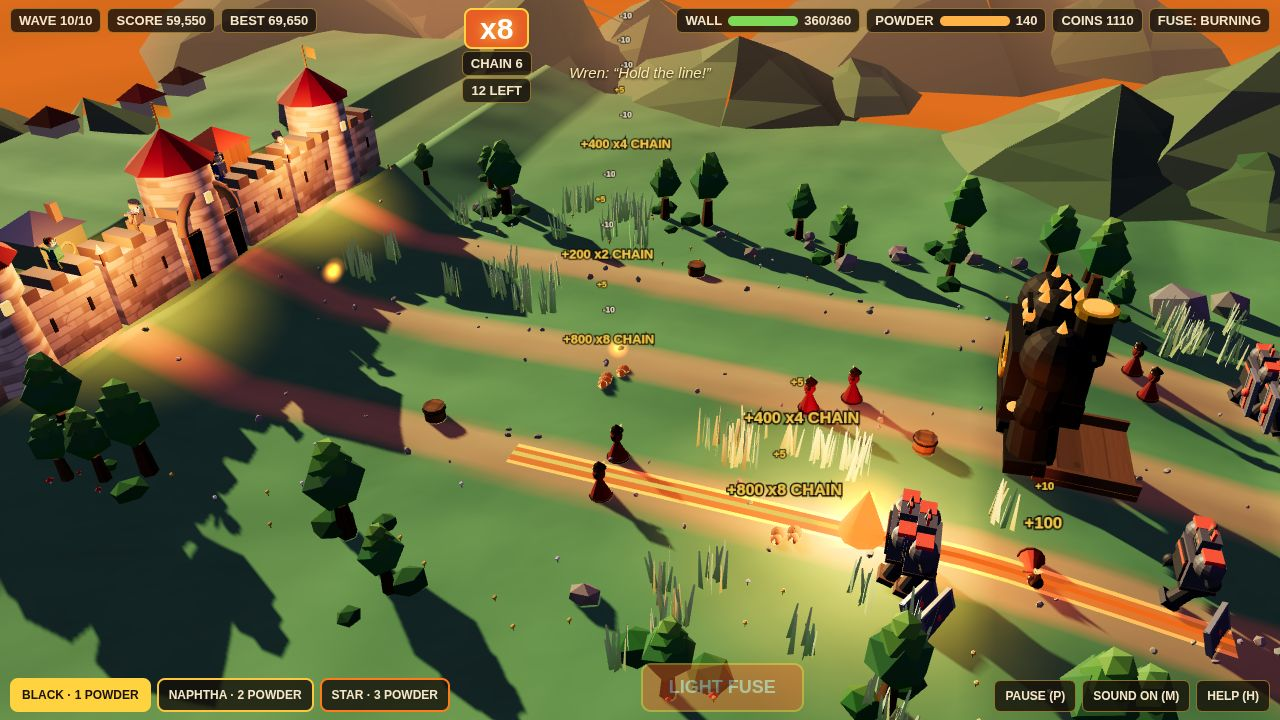
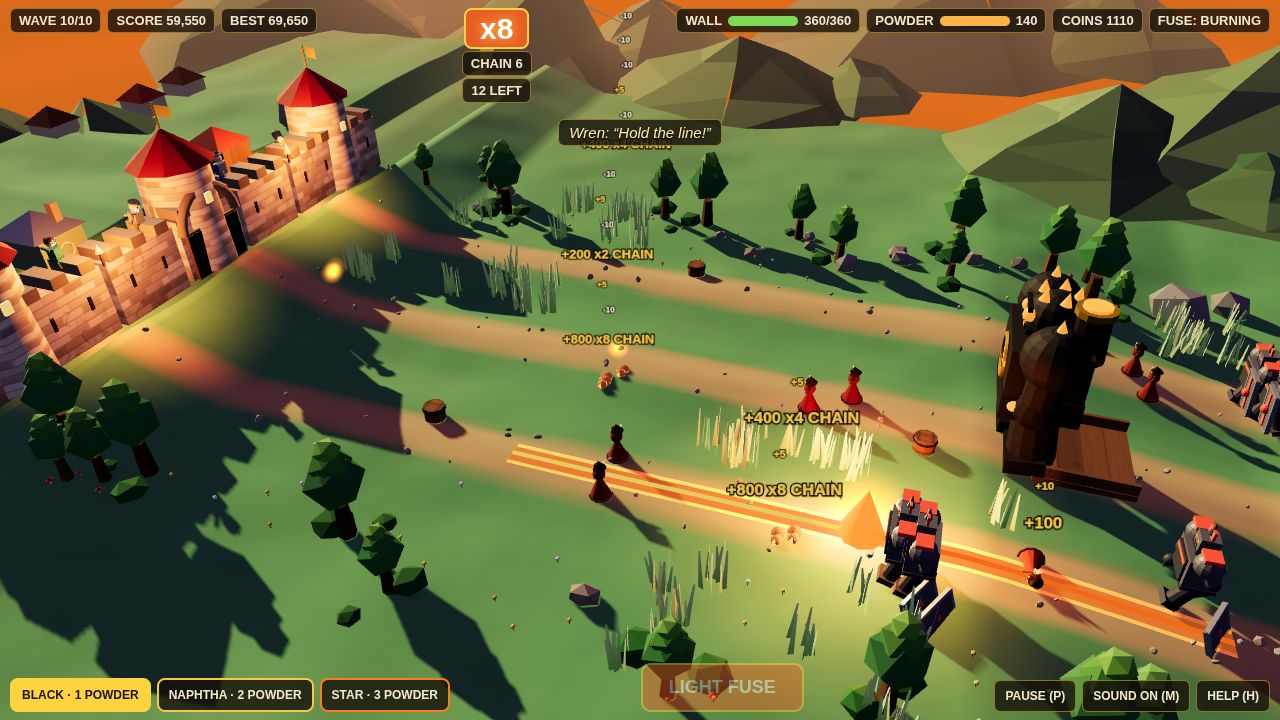
CHAINFIRE 3D round 3 Agent C (UI/sound): dialog pill below HUD + sound proof fixes
Item 8: bark was fixed top:64px, overlapping the HUD mid column
(x8/CHAIN/LEFT reach y~103) on long lines and swallowed by wrapped HUD
rows at phone widths. Now hangs below #hud (top:100%+8px), wraps inside
the frame, chip-style pill; toast moved inside #hud below the bark.
Geometry probe: 0 chip overlaps, 0 edge overflow at 1280x720, 844x390,
390x844 (longest bark).

Item 13: chain sound was dead code (drain played 'chain' for an event
the sim never pushed) — registerKill now pushes it. UI buttons had no
click sound — wired PLAY/difficulty/pause/mute/help/reroll/skip/menu
(click plays after unlock() so the first PLAY is audible). Fixed the
drain replay bug (events replayed once per sim step inside runSteps
batches; 1,088 raw calls -> 161). Sound log (after-sound-log.json):
click 62, chain 34, coin 34, fizzle 18, horn 6, shield_break 2, boom 1,
shoot 4, audioCtx running; oscillator-tone counts confirm every call
scheduled a real tone. SOUND ON (M) visible in the action shot.

Action re-staged deterministically (seed 7, --twice MATCH, 0 errors,
59,550 / x8, BEST 69,650 unchanged).

Changed region(s): [[0.4375, 0.1528, 0.5625, 0.2139], [0.4375, 0.0917, 0.5625, 0.1222]]

diff --git a/game/src/main.js b/game/src/main.js
@@ -75,7 +75,7 @@ const ui = new UI(
   { hud: document.getElementById('hud'), bottom: document.getElementById('bottom'), screen: document.getElementById('screen'), toast: document.getElementById('toast') },
   {
     onPlay: () => startRun(difficulty, SEED),
-    onDifficulty: (name) => { difficulty = name; ui.showTitle(profile, difficulty); },
+    onDifficulty: (name) => { audio.unlock(); audio.play('click'); difficulty = name; ui.showTitle(profile, difficulty); },
     onLightFuse: () => { if (world) lightTrail(world); },
     onPause: () => togglePause(),
     onMute: () => toggleMute(),
@@ -97,6 +97,9 @@ const ui = new UI(
     onReroll: () => {
       if (!world) return;
       if (mode === 'draft') {
+        // ROUND 3 (item 13): UI click sound (the results branch is covered
+        // by startRun below — do not double-play).
+        audio.play('click');
         if (rerollDraft(world)) ui.showDraft(world, profile);
       } else if (mode === 'results') {
         startRun(difficulty, SEED);
@@ -104,12 +107,13 @@ const ui = new UI(
     },
     onSkipDraft: () => {
       if (!world) return;
+      audio.play('click'); // ROUND 3 (item 13): UI click sound.
       world.draft = null;
       mode = 'play';
       ui.hideScreens();
     },
     onNewRun: () => startRun(difficulty, SEED),
-    onMenu: () => { mode = 'title'; showTitle(); }
+    onMenu: () => { audio.play('click'); mode = 'title'; showTitle(); } // ROUND 3 (item 13): UI click sound.
   }
 );
 
@@ -155,6 +159,7 @@ const input = createInput(canvas, renderer, {
 });
 
 function toggleMute() {
+  audio.play('click'); // ROUND 3 (item 13): UI click sound (plays while still unmuted; no-ops when muted).
   audio.unlock();
   audio.setMuted(!audio.isMuted());
   ui.setMuted(audio.isMuted());
@@ -162,12 +167,14 @@ function toggleMute() {
 
 function togglePause() {
   if (mode !== 'play') return;
+  audio.play('click'); // ROUND 3 (item 13): UI click sound.
   paused = !paused;
   ui.toast(paused ? 'PAUSED' : 'RESUMED');
 }
 
 function showHelp() {
-  if (mode === 'help') { closeHelp(); return; }
+  if (mode === 'help') { closeHelp(); return; } // closeHelp plays the click — do not double-play.
+  audio.play('click'); // ROUND 3 (item 13): UI click sound.
   helpReturn = mode;
   mode = 'help';
   ui.showHelp();
@@ -175,6 +182,7 @@ function showHelp() {
 
 function closeHelp() {
   if (mode !== 'help') return;
+  audio.play('click'); // ROUND 3 (item 13): UI click sound.
   mode = helpReturn;
   if (mode === 'title') showTitle();
   else ui.hideScreens();
@@ -243,6 +251,10 @@ function startRun(diffName, seed) {
   ui.hideScreens();
   ui.bark('waveStart', 0);
   audio.unlock();
+  // ROUND 3 (item 13): UI click sound (PLAY / NEW RUN / reroll-in-results).
+  // AFTER unlock(): on the first PLAY the context does not exist yet, so a
+  // play() before unlock() would early-return silently.
+  audio.play('click');
   audio.startAmbient();
   audio.setMusicMood('calm');
   input.setEnabled(true);
@@ -251,6 +263,13 @@ function startRun(diffName, seed) {
 function drainAudioEvents() {
   if (!world || !world.events) return;
   for (const ev of world.events) {
+    // ROUND 3 (item 13): the drain runs once per sim step, but the renderer
+    // only clears the list once per frame — inside a runSteps() batch (or a
+    // multi-step frame under lag) every event replayed once per step, so one
+    // explosion sounded hundreds of times. Mark each event played; the
+    // renderer still consumes + clears the list as before.
+    if (ev._played) continue;
+    ev._played = true;
     if (ev.type === 'chain') audio.play('chain', { pitch: world.chainMul });
     else if (ev.type === 'coin') audio.play('coin');
     else audio.play(ev.type);

diff --git a/game/index.html b/game/index.html
@@ -21,7 +21,14 @@
   .hud-bar-powder { background: #ffb347; }
   .hud-fuse.fuse-armed { color: #ff7a1a; border-color: #ff7a1a; animation: pulse 0.8s infinite; }
   @keyframes pulse { 50% { opacity: 0.6; } }
-  .bark { position: absolute; top: 64px; left: 50%; transform: translateX(-50%); color: #ffe9a8; font-size: 15px; font-style: italic; text-shadow: 0 1px 3px #000; pointer-events: none; }
+  /* ROUND 3 (item 8): the bark sat at fixed top:64px — but the HUD mid column
+     (x8/CHAIN/LEFT) reaches y~103, so every long bark overlapped the chips,
+     and at phone widths the wrapped HUD rows swallowed it entirely (390px:
+     bark over 8 LEFT + COINS + FUSE chips). Now the bark hangs just below the
+     HUD (top:100% of #hud, so it tracks HUD height at every viewport), wraps
+     inside the frame, and wears a chip-style pill so it reads over the
+     bright world. */
+  .bark { position: absolute; top: calc(100% + 8px); left: 50%; transform: translateX(-50%); max-width: calc(100vw - 24px); text-align: center; background: rgba(20,16,10,0.78); border: 1px solid rgba(255,197,61,0.5); border-radius: 6px; padding: 4px 10px; color: #ffe9a8; font-size: 15px; font-style: italic; text-shadow: 0 1px 3px #000; pointer-events: none; }
   #bottom { position: absolute; bottom: 0; left: 0; right: 0; display: flex; justify-content: space-between; align-items: flex-end; padding: 8px 10px; z-index: 5; gap: 8px; pointer-events: none; }
   #bottom > * { pointer-events: auto; }
   .powder-box { display: flex; gap: 6px; }
@@ -32,7 +39,11 @@
   .light-btn:disabled { cursor: default; }
   .ctl-box { display: flex; gap: 6px; }
   .ctl-btn { background: rgba(20,16,10,0.8); color: #f5e6c8; border: 1px solid rgba(255,197,61,0.5); border-radius: 6px; padding: 8px 10px; font-size: 12px; font-weight: bold; cursor: pointer; }
-  #toast { position: absolute; top: 110px; left: 50%; transform: translateX(-50%); background: rgba(20,16,10,0.85); color: #ffc53d; border: 1px solid #ffc53d; border-radius: 8px; padding: 8px 16px; font-size: 15px; font-weight: bold; opacity: 0; transition: opacity 0.2s; z-index: 6; pointer-events: none; }
+  /* ROUND 3 (item 8): the toast lived at fixed top:110px — moving the bark
+     below the HUD would collide with it (card-pick toast + wave-start bark
+     coincide every wave). The toast now hangs below the bark, also tracking
+     #hud height; it moved inside #hud in the markup (same id, same refs). */
+  #toast { position: absolute; top: calc(100% + 52px); left: 50%; transform: translateX(-50%); background: rgba(20,16,10,0.85); color: #ffc53d; border: 1px solid #ffc53d; border-radius: 8px; padding: 8px 16px; font-size: 15px; font-weight: bold; opacity: 0; transition: opacity 0.2s; z-index: 6; pointer-events: none; }
   #toast.show { opacity: 1; }
   .screen { position: absolute; inset: 0; z-index: 10; display: flex; align-items: center; justify-content: center; overflow-y: auto; padding: 12px; }
   .screen:empty { display: none; }
@@ -143,9 +154,8 @@
 </head>
 <body>
 <canvas id="gl"></canvas>
-<div id="hud"></div>
+<div id="hud"><div id="toast"></div></div>
 <div id="bottom"></div>
-<div id="toast"></div>
 <div id="screen" class="screen"></div>
 <script src="./vendor/three.min.js"></script>
 <script type="module" src="./src/main.js"></script>

diff --git a/game/src/sim.js b/game/src/sim.js
@@ -396,6 +396,10 @@ function registerKill(world, enemy) {
   world.chainTimer = window_;
   world.chainMul = chainMultiplier(world.chain);
   if (world.chain > world.longestChain) world.longestChain = world.chain;
+  // ROUND 3 (item 13): the chain sound was dead code — drainAudioEvents
+  // played 'chain' for a 'chain' event the sim never pushed. Every kill is
+  // a chain link; the drain pitches it by the current chainMul.
+  pushEvent(world, 'chain');
 
   const gain = world.chainMul >= 4
     ? Math.round(100 * world.chainMul * (1 + world.mods.overkillBonus))

diff --git a/game/src/audio.js b/game/src/audio.js
@@ -570,6 +570,10 @@ export function createAudio() {
     unlock,
     setMuted,
     isMuted,
+    // Diagnostic (read-only): the AudioContext state, so a headless probe can
+    // prove the context was actually running (tones scheduled), not merely
+    // that play() was called. ROUND 3 (item 13).
+    state: () => (ctx ? ctx.state : 'none'),
     play,
     startAmbient,
     stopAmbient,
